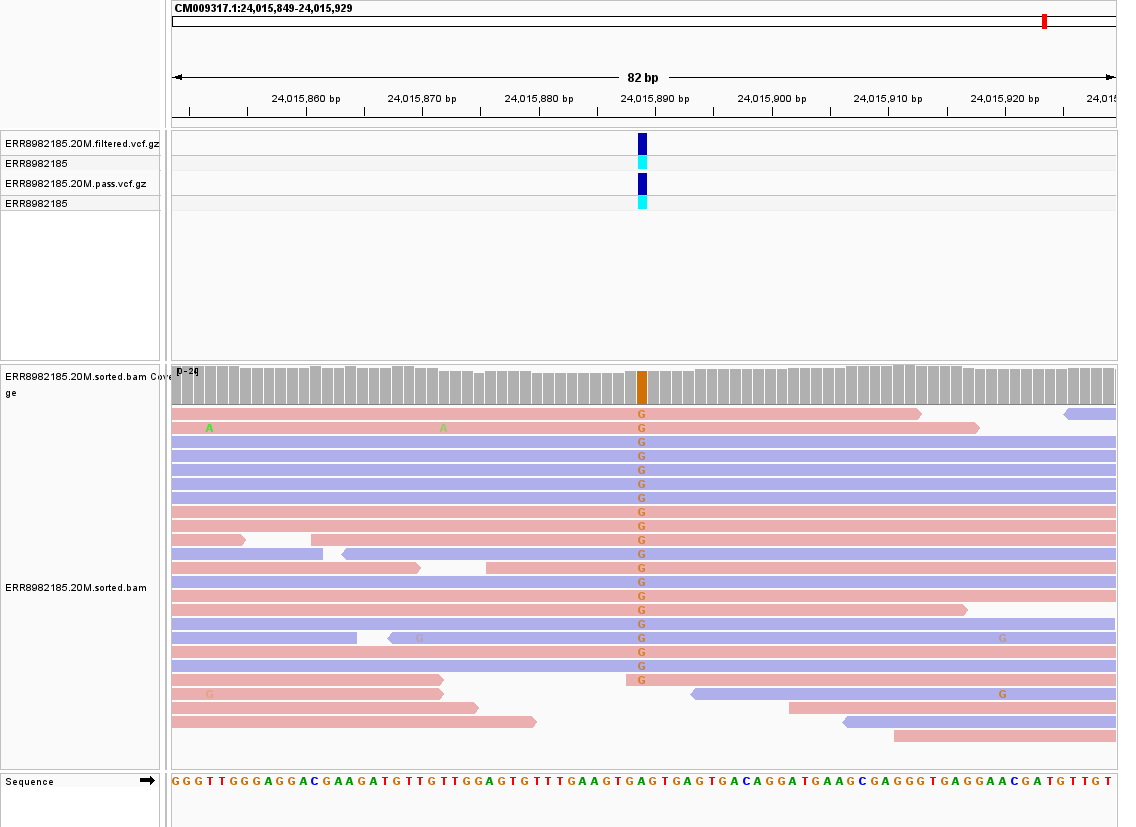
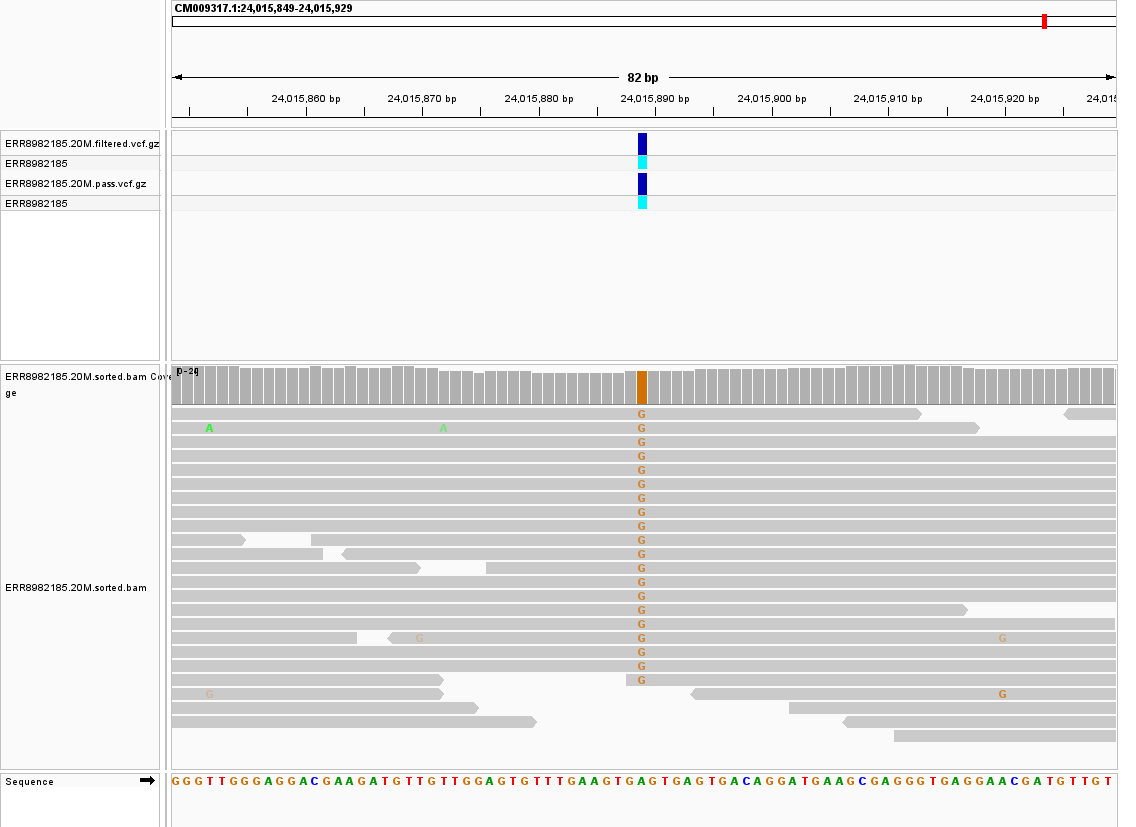
Restore original IGV views and place statistics graphs after the image gallery

Changed region(s): [[0.154, 0.4837, 0.9859, 0.9069]]

diff --git a/Week-7/scripts/prepare_expanded_igv.py b/Week-7/scripts/prepare_expanded_igv.py
@@ -81,7 +81,7 @@ commands = [
     f'load {root}/Week-7/expanded/results/ERR8982185.20M.filtered.vcf.gz',
     f'load {root}/Week-7/expanded/results/ERR8982185.20M.pass.vcf.gz',
     f'load {root}/Week-7/expanded/bam/ERR8982185.20M.sorted.bam',
-    'maxPanelHeight 800', 'setSequenceShowTranslation false', 'colorBy READ_STRAND',
+    'maxPanelHeight 800', 'setSequenceShowTranslation false',
     'goto CM009322.1:3189400-3191050',
     'snapshot expanded_original_snp_cluster.png',
     'goto CM009322.1:3189480-3189585',

diff --git a/Week-7/README.md b/Week-7/README.md
@@ -110,6 +110,130 @@ The SNP transition/transversion ratio was 0.97 (9,637 transitions and 9,939
 transversions). I would not use that ratio alone to judge this call set;
 coverage, mapping, and the sample's differences from the reference also matter.
 
+## Alignment support in IGV
+
+I loaded the reference, BAM, filtered VCF, and PASS VCF in IGV 2.19.8.
+The upper tracks show the calls, followed by coverage and aligned reads.
+Gray read segments match the reference, colored bases show mismatches,
+and purple markers indicate insertions.
+
+For the close-ups, I chose calls with usable depth near 20, QUAL >= 50,
+MQ >= 50, at least eight alternate observations, and an alternate fraction
+of at least 0.8. I also checked that unfiltered depth at each selected site
+was no more than 100. These examples were chosen for inspection and do not
+represent the distribution of every call in the VCF.
+
+### Regional view: CM009327.1
+
+This 10-kb view shows reads across most of the interval, along with changes
+in depth and a local gap. Most positions have no variant marker because
+their aligned bases agree with the reference. The larger input improved
+coverage without making every covered position a variant.
+
+![Expanded 10-kb regional coverage](expanded/screenshots/expanded_regional_overview.png)
+
+### SNP 1: CM009327.1:5,823,606, A>T
+
+This call has QUAL 225.417, DP 20, and AD 0,20. All 20 usable observations
+support T. The red T bases form a consistent column beneath the VCF marker,
+with reads starting and ending at different positions. This looks more
+convincing than an isolated mismatch in a single read.
+
+![A-to-T SNP and aligned reads](expanded/screenshots/expanded_pass_variant_1.png)
+
+### SNP 2: CM009317.1:24,015,889, A>G
+
+The orange G bases line up with the called position. QUAL is 225.417,
+DP is 20, and AD is 0,20, again showing consistent alternate support.
+Both SNP examples have MQ 60. The selected calls and their measurements
+are saved in [igv-selected-variants.json](expanded/results/igv-selected-variants.json).
+
+![A-to-G SNP and aligned reads](expanded/screenshots/expanded_pass_variant_2.png)
+
+### Insertion: CM009327.1:9,842,294, A>AT
+
+The purple markers show a one-base insertion at the same position in many
+reads. QUAL is 228.361, DP is 20, and AD is 2,18, so 18 usable observations
+support the insertion and two support the reference. The repeated bases
+nearby make alignment inspection especially useful for this example.
+
+![One-base insertion and aligned reads](expanded/screenshots/expanded_pass_variant_3.png)
+
+## Revisiting the original examples
+
+The earlier A>G candidate at `CM009322.1:3,189,512` now passes with DP 917
+and AD 0,917. The T>A candidate at `CM009334.1:8,569,458` also passes, with
+DP 970 and AD 3,967. These depths are much higher than the genome average,
+so they need closer examination for repeats, mapping ambiguity, and duplicate
+reads. High depth alone does not settle whether a call is reliable.
+
+### Original SNP cluster with more reads
+
+The wider view now contains a dense pileup beneath the VCF markers. It is
+a clear visual contrast with the sparse original alignment, but this locus
+is unusually deep and should not stand in for typical genome coverage.
+
+![Expanded coverage at the original SNP cluster](expanded/screenshots/expanded_original_snp_cluster.png)
+
+### Original SNP close-up
+
+The orange G bases appear repeatedly beneath the original A>G call. This
+provides much more usable support than the two observations in the first
+run, while the unusually high depth remains a reason to check mapping.
+
+![Expanded close-up at the original SNP](expanded/screenshots/expanded_original_snp_zoom.png)
+
+### Original insertion region
+
+Purple insertion markers remain visible in some reads, but the earlier
+`CM009336.1:3,474,356 A>AAAT` call is absent from the expanded VCF in the
+inspected interval. Nearby SNPs were called instead. The image therefore
+shows an alignment feature that was not reported as that insertion by the
+expanded workflow. The calls at the original loci are listed in
+[original-loci-variants.tsv](expanded/results/original-loci-variants.tsv).
+
+![Expanded reads at the original insertion region](expanded/screenshots/expanded_original_insertion.png)
+
+## Discussion
+
+The main change was the amount of usable evidence. In the first run, each
+candidate had only one or two usable observations, so all 134 candidates
+failed the minimum depth of three. Some had fairly high QUAL scores, but
+they still had too little read support. The empty PASS VCF therefore said
+more about the small input than about whether the sample matched the reference.
+
+With the larger subset, coverage reached 96.48% and mean depth reached 8.42.
+That allowed many more positions to be assessed and produced 24,042 calls
+meeting the same thresholds. SNPs made up most of the passing calls, with
+indels accounting for nearly one fifth. The selected IGV examples show
+consistent alternate bases or insertion markers across several reads,
+which makes them reasonable candidates for further investigation.
+
+The deeper data also showed why high depth needs careful interpretation.
+The maximum depth was 24,408, far above the genome-wide average. Repeated
+sequence, reads mapping to similar regions, and duplicate reads are possible
+contributors, but this analysis does not establish the cause of that peak.
+Duplicates were not marked or removed. A large pileup can therefore provide
+many observations without the same number of independent DNA molecules.
+
+Two earlier SNPs now pass: A>G at `CM009322.1:3,189,512` and T>A at
+`CM009334.1:8,569,458`. However, their usable depths of 917 and 970 are
+unusually high, so I would examine mapping and duplication before treating
+them as especially reliable. The earlier three-base insertion at
+`CM009336.1:3,474,356` was not reported in the expanded VCF around that locus,
+even though insertion markers remain visible in some reads. That disagreement
+shows why a visible mismatch or insertion should be checked against the caller's
+usable evidence rather than accepted from the image alone.
+
+Overall, the larger input made the assignment much more informative, but
+PASS is still a filtering result. These calls may include real sample-reference
+differences and alignment or sequencing errors. Gene annotation, a check of
+strand support and duplicates, and independent validation would help identify
+the strongest biological candidates. The present results do not establish
+that any particular call is a CRISPR edit.
+
+## VCF statistics and graphs
+
 ### Run the statistics report
 
 The expanded Makefile saves reports from `bcftools stats` for both raw and
@@ -183,98 +307,6 @@ This is depth at PASS variant sites, not genome-wide coverage, so it should
 not be read as a second estimate of the mean genome depth of 8.42.
 
 ![Genotype depth distribution at passing variant sites](expanded/plots/pass/depth.0.png)
-
-## Alignment support in IGV
-
-I loaded the reference FASTA, expanded BAM, filtered VCF, and PASS VCF in
-IGV 2.19.8. The VCF tracks sit above the coverage and read alignments.
-Colored bases show mismatches to the reference, and purple markers show
-insertions. The [expanded report](expanded/README.md) includes all seven views.
-
-The horizontal read bars are now colored by **read strand**, as in the
-example: pink is the positive strand and blue/purple is the negative strand.
-Their pointed ends indicate direction. These colors describe how the reads
-align, rather than whether a read contains a variant.
-
-| IGV feature | Meaning |
-|---|---|
-| Pink horizontal read | Positive (+) strand |
-| Blue/purple horizontal read | Negative (-) strand |
-| Colored DNA letters | A: green; C: blue; G: orange/yellow; T: red |
-| Small purple `I` or number | Insertion; a number gives its length |
-| Black gap within a read | Deletion relative to the reference |
-
-To select this view manually, right-click the BAM alignments and choose
-**Color alignments by > Read strand**. The batch script uses
-`colorBy READ_STRAND`. Seeing alternate support on both strand colors is
-useful when checking for strand bias, although an image is not a formal
-strand-bias test. The symbols and colors follow the
-[IGV alignment guide](https://igv.org/doc/desktop/UserGuide/tracks/alignments/viewing_alignments_basics/).
-
-### Regional coverage
-
-This 10-kb region shows the difference that the larger read set made. Reads
-cover most of the interval, although depth varies and there is a local gap.
-Only a few variant markers appear because most aligned bases agree with
-the reference.
-
-![Expanded regional coverage in IGV](expanded/screenshots/expanded_regional_overview.png)
-
-### A supported SNP
-
-At `CM009327.1:5,823,606`, the reference base is A and the called allele is T.
-The call has QUAL 225.417, DP 20, and AD 0,20: all 20 usable observations
-support T. The red T bases line up with the VCF marker across several reads.
-This is stronger evidence than a mismatch seen in only one low-quality read.
-
-![A-to-T SNP supported by the alignments](expanded/screenshots/expanded_pass_variant_1.png)
-
-### A supported insertion
-
-At `CM009327.1:9,842,294`, the allele changes from A to AT, a one-base insertion.
-It has QUAL 228.361, DP 20, and AD 2,18. Most usable observations support the
-insertion, and the purple markers line up at the same position in IGV.
-The repeated sequence nearby is still a reason to inspect the alignment carefully.
-
-![One-base insertion supported by the alignments](expanded/screenshots/expanded_pass_variant_3.png)
-
-## Discussion
-
-The main change was the amount of usable evidence. In the first run, each
-candidate had only one or two usable observations, so all 134 candidates
-failed the minimum depth of three. Some had fairly high QUAL scores, but
-they still had too little read support. The empty PASS VCF therefore said
-more about the small input than about whether the sample matched the reference.
-
-With the larger subset, coverage reached 96.48% and mean depth reached 8.42.
-That allowed many more positions to be assessed and produced 24,042 calls
-meeting the same thresholds. SNPs made up most of the passing calls, with
-indels accounting for nearly one fifth. The selected IGV examples show
-consistent alternate bases or insertion markers across several reads,
-which makes them reasonable candidates for further investigation.
-
-The deeper data also showed why high depth needs careful interpretation.
-The maximum depth was 24,408, far above the genome-wide average. Repeated
-sequence, reads mapping to similar regions, and duplicate reads are possible
-contributors, but this analysis does not establish the cause of that peak.
-Duplicates were not marked or removed. A large pileup can therefore provide
-many observations without the same number of independent DNA molecules.
-
-Two earlier SNPs now pass: A>G at `CM009322.1:3,189,512` and T>A at
-`CM009334.1:8,569,458`. However, their usable depths of 917 and 970 are
-unusually high, so I would examine mapping and duplication before treating
-them as especially reliable. The earlier three-base insertion at
-`CM009336.1:3,474,356` was not reported in the expanded VCF around that locus,
-even though insertion markers remain visible in some reads. That disagreement
-shows why a visible mismatch or insertion should be checked against the caller's
-usable evidence rather than accepted from the image alone.
-
-Overall, the larger input made the assignment much more informative, but
-PASS is still a filtering result. These calls may include real sample-reference
-differences and alignment or sequencing errors. Gene annotation, a check of
-strand support and duplicates, and independent validation would help identify
-the strongest biological candidates. The present results do not establish
-that any particular call is a CRISPR edit.
 
 ## Reproduce the analysis
 

diff --git a/Week-7/expanded/README.md b/Week-7/expanded/README.md
@@ -62,16 +62,8 @@ normalized candidate and its filter label; the
 
 I loaded the reference, BAM, filtered VCF, and PASS VCF in IGV 2.19.8.
 The upper tracks show the calls, followed by coverage and aligned reads.
-The horizontal read bars are colored by strand: pink for positive (+) and
-blue/purple for negative (-). Colored DNA letters still show mismatches,
-and the small purple insertion markers have a different meaning from the
-blue/purple read background. This follows the
-[IGV color key](https://igv.org/doc/desktop/UserGuide/tracks/alignments/viewing_alignments_basics/).
-
-The [main report's statistics graphs](../README.md#graphs-from-the-statistics-report)
-show Ts/Tv by quality, SNP substitution types, indel lengths, and depth at
-PASS sites. They were generated from
-[sample-level VCF statistics](results/pass.sample.stats.txt) with `make plots`.
+Gray read segments match the reference, colored bases show mismatches,
+and purple markers indicate insertions.
 
 For the close-ups, I chose calls with usable depth near 20, QUAL >= 50,
 MQ >= 50, at least eight alternate observations, and an alternate fraction
@@ -158,6 +150,54 @@ for further checks, then examine strand support, mapping, and gene context.
 Passing the filter and looking consistent in IGV are useful evidence;
 independent validation would still be needed to confirm a biological change
 or connect it to CRISPR editing.
+
+## Graphs from the statistics report
+
+These graphs were generated from the expanded PASS VCF with BCFtools
+`plot-vcfstats`. To recreate them from `Week-7/expanded`, run `make plots`.
+The commands behind that target are:
+
+```bash
+bcftools stats -s - -d 0,1100,1 \
+  results/ERR8982185.20M.pass.vcf.gz > results/pass.sample.stats.txt
+plot-vcfstats -P -p plots/pass -t ERR8982185_PASS \
+  results/pass.sample.stats.txt
+```
+
+`-s -` includes the sample's genotype statistics, which are needed for the
+depth distribution. `-P` skips the combined PDF and produces image panels.
+This uses the [BCFtools plotting workflow](https://samtools.github.io/bcftools/bcftools.html#plot-vcfstats).
+
+**Transitions and transversions by call quality.** SNPs are sorted from
+highest to lowest QUAL. The solid line gives the cumulative Ts/Tv ratio;
+the dashed line gives the ratio within successive 1% bins. The highest-quality
+subset has a higher ratio than the complete set, which ends at about 0.97.
+The variation across bins shows why the overall ratio alone is not enough
+to judge every call.
+
+![Transition/transversion ratio by QUAL](plots/pass/tstv_by_qual.0.png)
+
+**SNP substitution types.** Each bar counts a reference-to-alternate change.
+The darker bars are transitions (A>G, C>T, G>A, and T>C), while the lighter
+bars are transversions. These categories sum to 19,576 passing SNPs.
+
+![Counts of the twelve SNP substitution types](plots/pass/substitutions.0.png)
+
+**Indel lengths.** Negative lengths represent deletions and positive lengths
+represent insertions. Most calls are short, especially one-base changes.
+The longer, less common indels are visible in the tails of the distribution.
+
+![Length distribution of passing indels](plots/pass/indels.0.png)
+
+**Depth at passing variant sites.** The black line shows the percentage of
+genotypes at each depth, and the orange line shows the cumulative percentage.
+About 66.47% have usable depth 3-9, with a long tail of much deeper calls.
+The plotting tool displays roughly the first 99% of the depth distribution;
+the full values are in [pass.sample.stats.txt](results/pass.sample.stats.txt).
+This is depth at PASS variant sites, not genome-wide coverage, so it should
+not be read as a second estimate of the mean genome depth of 8.42.
+
+![Genotype depth distribution at passing variant sites](plots/pass/depth.0.png)
 
 ## Reproduce these results
 
